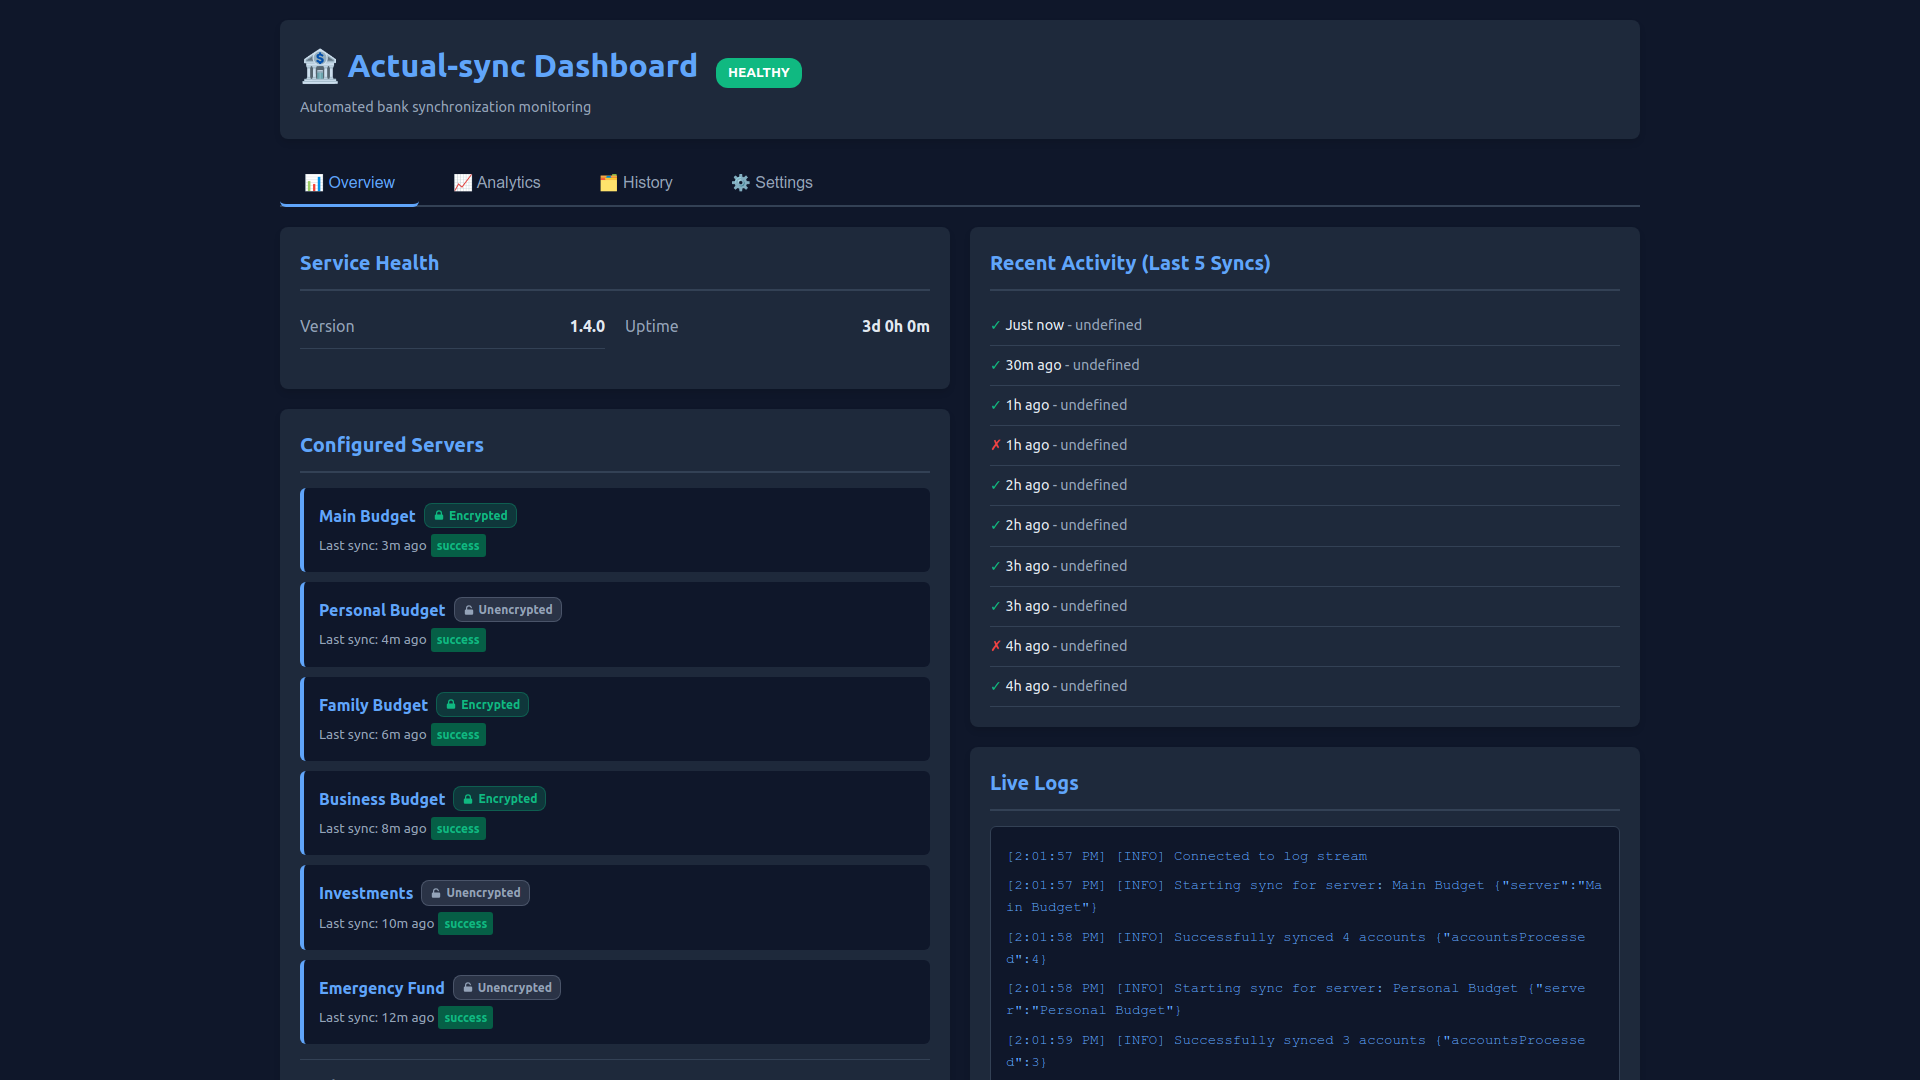
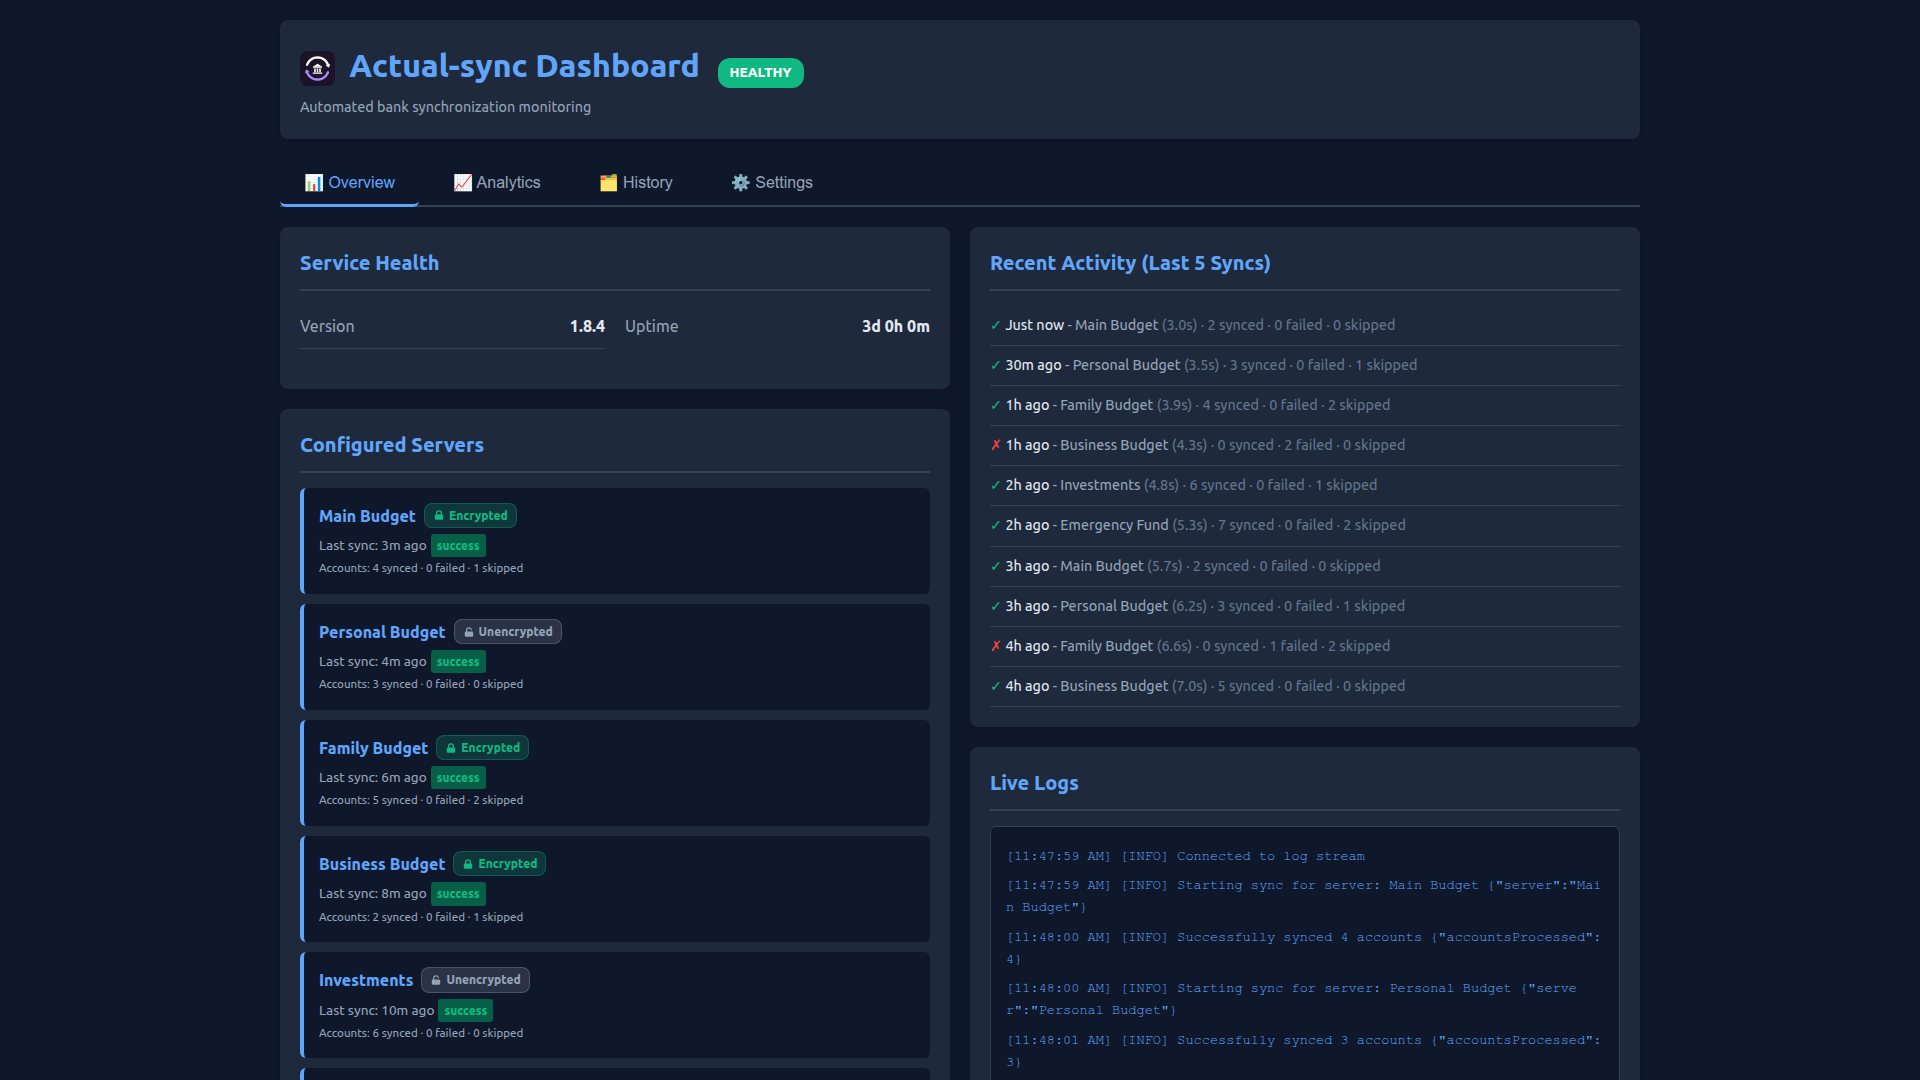
docs(dashboard): refresh preview screenshots with current version + skipped counts
Sample data in the screenshot generator showed a stale hardcoded version
(1.4.0) and used camelCase history fields (serverName/duration/
accountsProcessed) that the dashboard does not read, so Recent Activity
rendered 'undefined'. Switch the sample version to pkg.version, rename the
history fields to the snake_case the dashboard consumes (server_name,
duration_ms, accounts_succeeded/failed/skipped), and add per-server
lastSyncCounts so the Configured Servers cards also show skipped accounts.
Regenerated all 10 preview PNGs.

diff --git a/scripts/generateDashboardScreenshots.js b/scripts/generateDashboardScreenshots.js
@@ -19,6 +19,7 @@ const puppeteer = require('puppeteer');
 const fs = require('fs');
 const path = require('path');
 const http = require('http');
+const pkg = require('../package.json'); // sample data shows the current version, not a stale literal
 
 const SCREENSHOTS_DIR = path.join(__dirname, '../docs/screenshots');
 const DASHBOARD_URL = 'http://localhost:3000/dashboard';
@@ -72,7 +73,7 @@ async function injectFakeData(page, scenario) {
         healthy: {
             status: {
                 status: 'HEALTHY',
-                version: '1.4.0',
+                version: pkg.version,
                 uptime: 86400, // 1 day
                 sync: {
                     lastSyncTime: new Date(Date.now() - 300000).toISOString(), // 5 min ago
@@ -83,9 +84,9 @@ async function injectFakeData(page, scenario) {
                     successRate: '96.67%'
                 },
                 servers: {
-                    'Main Budget': { status: 'success', lastSync: new Date(Date.now() - 300000).toISOString(), lastSyncStatus: 'success' },
-                    'Personal Budget': { status: 'success', lastSync: new Date(Date.now() - 600000).toISOString(), lastSyncStatus: 'success' },
-                    'Family Budget': { status: 'success', lastSync: new Date(Date.now() - 900000).toISOString(), lastSyncStatus: 'success' }
+                    'Main Budget': { status: 'success', lastSync: new Date(Date.now() - 300000).toISOString(), lastSyncStatus: 'success', lastSyncCounts: { succeeded: 3, failed: 0, skipped: 1 } },
+                    'Personal Budget': { status: 'success', lastSync: new Date(Date.now() - 600000).toISOString(), lastSyncStatus: 'success', lastSyncCounts: { succeeded: 2, failed: 0, skipped: 2 } },
+                    'Family Budget': { status: 'success', lastSync: new Date(Date.now() - 900000).toISOString(), lastSyncStatus: 'success', lastSyncCounts: { succeeded: 4, failed: 0, skipped: 0 } }
                 }
             },
             metrics: {
@@ -122,11 +123,12 @@ async function injectFakeData(page, scenario) {
             },
             history: Array.from({length: 10}, (_, i) => ({
                 timestamp: new Date(Date.now() - i * 3600000).toISOString(),
-                serverName: ['Main Budget', 'Personal Budget', 'Family Budget'][i % 3],
+                server_name: ['Main Budget', 'Personal Budget', 'Family Budget'][i % 3],
                 status: (i === 2 || i === 7) ? 'error' : 'success',
-                duration: 3000 + (i * 400), // Deterministic duration
-                accountsProcessed: (i % 5) + 1, // Deterministic account count
-                accountsFailed: (i === 2 || i === 7) ? 1 : 0
+                duration_ms: 3000 + (i * 400), // Deterministic duration
+                accounts_succeeded: (i % 5) + 1, // Deterministic account count
+                accounts_failed: (i === 2 || i === 7) ? 1 : 0,
+                accounts_skipped: i % 3
             })),
             logs: [
                 { level: 'INFO', message: 'Starting sync for server: Main Budget', metadata: { server: 'Main Budget' } },
@@ -138,7 +140,7 @@ async function injectFakeData(page, scenario) {
         degraded: {
             status: {
                 status: 'DEGRADED',
-                version: '1.4.0',
+                version: pkg.version,
                 uptime: 172800, // 2 days
                 sync: {
                     lastSyncTime: new Date(Date.now() - 1800000).toISOString(), // 30 min ago
@@ -149,10 +151,10 @@ async function injectFakeData(page, scenario) {
                     successRate: '85.00%'
                 },
                 servers: {
-                    'Main Budget': { status: 'success', lastSync: new Date(Date.now() - 1800000).toISOString(), lastSyncStatus: 'success' },
-                    'Personal Budget': { status: 'error', lastSync: new Date(Date.now() - 3600000).toISOString(), lastSyncStatus: 'failure', error: 'Connection timeout after 3 retries' },
-                    'Family Budget': { status: 'success', lastSync: new Date(Date.now() - 2400000).toISOString(), lastSyncStatus: 'partial' },
-                    'Business Budget': { status: 'error', lastSync: new Date(Date.now() - 5400000).toISOString(), lastSyncStatus: 'failure', error: 'Rate limit exceeded' }
+                    'Main Budget': { status: 'success', lastSync: new Date(Date.now() - 1800000).toISOString(), lastSyncStatus: 'success', lastSyncCounts: { succeeded: 3, failed: 0, skipped: 1 } },
+                    'Personal Budget': { status: 'error', lastSync: new Date(Date.now() - 3600000).toISOString(), lastSyncStatus: 'failure', error: 'Connection timeout after 3 retries', lastSyncCounts: { succeeded: 0, failed: 2, skipped: 1 } },
+                    'Family Budget': { status: 'success', lastSync: new Date(Date.now() - 2400000).toISOString(), lastSyncStatus: 'partial', lastSyncCounts: { succeeded: 2, failed: 1, skipped: 2 } },
+                    'Business Budget': { status: 'error', lastSync: new Date(Date.now() - 5400000).toISOString(), lastSyncStatus: 'failure', error: 'Rate limit exceeded', lastSyncCounts: { succeeded: 0, failed: 3, skipped: 0 } }
                 }
             },
             metrics: {
@@ -196,11 +198,12 @@ async function injectFakeData(page, scenario) {
             },
             history: Array.from({length: 10}, (_, i) => ({
                 timestamp: new Date(Date.now() - i * 3600000).toISOString(),
-                serverName: ['Main Budget', 'Personal Budget', 'Family Budget', 'Business Budget'][i % 4],
+                server_name: ['Main Budget', 'Personal Budget', 'Family Budget', 'Business Budget'][i % 4],
                 status: (i === 1 || i === 4 || i === 7) ? 'error' : 'success',
-                duration: 3000 + (i * 500), // Deterministic duration
-                accountsProcessed: (i === 1 || i === 4 || i === 7) ? 0 : (i % 5) + 1, // Deterministic account count
-                accountsFailed: (i === 1 || i === 4 || i === 7) ? ((i % 3) + 1) : 0 // Deterministic failures
+                duration_ms: 3000 + (i * 500), // Deterministic duration
+                accounts_succeeded: (i === 1 || i === 4 || i === 7) ? 0 : (i % 5) + 1, // Deterministic account count
+                accounts_failed: (i === 1 || i === 4 || i === 7) ? ((i % 3) + 1) : 0, // Deterministic failures
+                accounts_skipped: i % 2
             })),
             logs: [
                 { level: 'ERROR', message: 'Sync failed for server: Personal Budget', metadata: { server: 'Personal Budget', error: 'Connection timeout' } },
@@ -212,7 +215,7 @@ async function injectFakeData(page, scenario) {
         multiServer: {
             status: {
                 status: 'HEALTHY',
-                version: '1.4.0',
+                version: pkg.version,
                 uptime: 259200, // 3 days
                 sync: {
                     lastSyncTime: new Date(Date.now() - 180000).toISOString(), // 3 min ago
@@ -223,12 +226,12 @@ async function injectFakeData(page, scenario) {
                     successRate: '97.00%'
                 },
                 servers: {
-                    'Main Budget': { status: 'success', lastSync: new Date(Date.now() - 180000).toISOString(), lastSyncStatus: 'success' },
-                    'Personal Budget': { status: 'success', lastSync: new Date(Date.now() - 240000).toISOString(), lastSyncStatus: 'success' },
-                    'Family Budget': { status: 'success', lastSync: new Date(Date.now() - 360000).toISOString(), lastSyncStatus: 'success' },
-                    'Business Budget': { status: 'success', lastSync: new Date(Date.now() - 480000).toISOString(), lastSyncStatus: 'success' },
-                    'Investments': { status: 'success', lastSync: new Date(Date.now() - 600000).toISOString(), lastSyncStatus: 'success' },
-                    'Emergency Fund': { status: 'success', lastSync: new Date(Date.now() - 720000).toISOString(), lastSyncStatus: 'success' }
+                    'Main Budget': { status: 'success', lastSync: new Date(Date.now() - 180000).toISOString(), lastSyncStatus: 'success', lastSyncCounts: { succeeded: 4, failed: 0, skipped: 1 } },
+                    'Personal Budget': { status: 'success', lastSync: new Date(Date.now() - 240000).toISOString(), lastSyncStatus: 'success', lastSyncCounts: { succeeded: 3, failed: 0, skipped: 0 } },
+                    'Family Budget': { status: 'success', lastSync: new Date(Date.now() - 360000).toISOString(), lastSyncStatus: 'success', lastSyncCounts: { succeeded: 5, failed: 0, skipped: 2 } },
+                    'Business Budget': { status: 'success', lastSync: new Date(Date.now() - 480000).toISOString(), lastSyncStatus: 'success', lastSyncCounts: { succeeded: 2, failed: 0, skipped: 1 } },
+                    'Investments': { status: 'success', lastSync: new Date(Date.now() - 600000).toISOString(), lastSyncStatus: 'success', lastSyncCounts: { succeeded: 6, failed: 0, skipped: 0 } },
+                    'Emergency Fund': { status: 'success', lastSync: new Date(Date.now() - 720000).toISOString(), lastSyncStatus: 'success', lastSyncCounts: { succeeded: 3, failed: 0, skipped: 3 } }
                 }
             },
             serverEncryption: {
@@ -296,11 +299,12 @@ async function injectFakeData(page, scenario) {
             },
             history: Array.from({length: 10}, (_, i) => ({
                 timestamp: new Date(Date.now() - i * 1800000).toISOString(),
-                serverName: ['Main Budget', 'Personal Budget', 'Family Budget', 'Business Budget', 'Investments', 'Emergency Fund'][i % 6],
+                server_name: ['Main Budget', 'Personal Budget', 'Family Budget', 'Business Budget', 'Investments', 'Emergency Fund'][i % 6],
                 status: (i === 3 || i === 8) ? 'error' : 'success',
-                duration: 3000 + (i * 450), // Deterministic duration
-                accountsProcessed: (i === 3 || i === 8) ? 0 : ((i % 6) + 2), // Deterministic account count
-                accountsFailed: (i === 3 || i === 8) ? ((i % 2) + 1) : 0 // Deterministic failures
+                duration_ms: 3000 + (i * 450), // Deterministic duration
+                accounts_succeeded: (i === 3 || i === 8) ? 0 : ((i % 6) + 2), // Deterministic account count
+                accounts_failed: (i === 3 || i === 8) ? ((i % 2) + 1) : 0, // Deterministic failures
+                accounts_skipped: i % 3
             })),
             logs: [
                 { level: 'INFO', message: 'Starting sync for server: Main Budget', metadata: { server: 'Main Budget' } },
